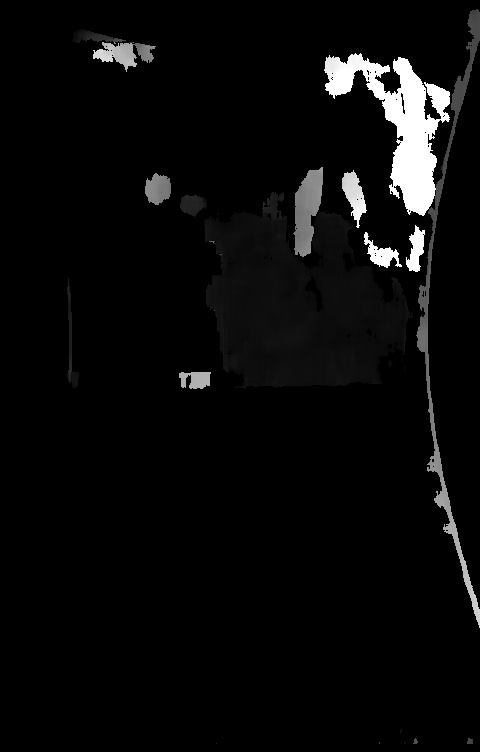
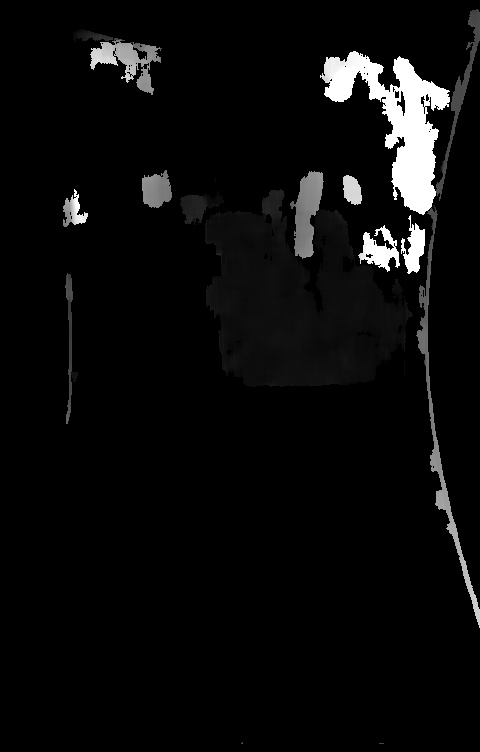
test using opencv StereoBM

diff --git a/indigosdk-2.0.15/src/omnis5u3mt9v022.cc b/indigosdk-2.0.15/src/omnis5u3mt9v022.cc
@@ -541,7 +541,7 @@ static DeferredImage computeDisparityImage2(std::shared_ptr<void> stereo_handle,
         // Mat test = occamImageToCvMat(disp);
         imwrite("img/disp/left/left_disp"+std::to_string(index)+".jpg", left_disp);
         imwrite("img/disp/right/right_disp"+std::to_string(index)+".jpg", right_disp);
-        imwrite("img/disp/filtered_disp"+std::to_string(index)+".jpg", filtered_disp);
+        imwrite("img/disp/filtered/filtered_disp"+std::to_string(index)+".jpg", filtered_disp);
         imwrite("img/mono/left_for_matcher"+std::to_string(index)+".jpg", left_for_matcher);
         imwrite("img/mono/right_for_matcher"+std::to_string(index)+".jpg", right_for_matcher);
 
@@ -556,27 +556,6 @@ static DeferredImage computeDisparityImage2(std::shared_ptr<void> stereo_handle,
     return DeferredImage(gen_fn,img0r,img1r);
 }
 
-static DeferredImage computeDisparityImage4(std::shared_ptr<void> stereo_handle,
-        int index,
-        DeferredImage img0r,
-        DeferredImage img1r) {
-    auto gen_fn = [=](){
-        Mat left_for_matcher, right_for_matcher;
-        left_for_matcher = imread("img_2016-09-28_20:02/mono/left_for_matcher"+std::to_string(index)+".jpg", IMREAD_UNCHANGED);
-        right_for_matcher = imread("img_2016-09-28_20:02/mono/right_for_matcher"+std::to_string(index)+".jpg", IMREAD_UNCHANGED);
-        OccamImage* img0rp = cvMatToOccamImage(left_for_matcher.clone());
-        OccamImage* img1rp = cvMatToOccamImage(right_for_matcher.clone());
-        // OccamImage* img0rp = img0r->get();
-        // OccamImage* img1rp = img1r->get();
-        IOccamStereo* stereo_iface = 0;
-        occamGetInterface(stereo_handle.get(),IOCCAMSTEREO,(void**)&stereo_iface);
-        OccamImage* disp = 0;
-        stereo_iface->compute(stereo_handle.get(),index,img0rp,img1rp,&disp);
-        return std::shared_ptr<OccamImage>(disp,occamFreeImage);
-    };  
-    return DeferredImage(gen_fn,img0r,img1r);
-}
-
 static DeferredImage computeDisparityImage(std::shared_ptr<void> stereo_handle,
         int index,
         DeferredImage img0r,
@@ -584,13 +563,17 @@ static DeferredImage computeDisparityImage(std::shared_ptr<void> stereo_handle,
     auto gen_fn = [=](){
         OccamImage* img0rp = img0r->get();
         OccamImage* img1rp = img1r->get();
+        Mat left_for_matcher = occamImageToCvMat(img0rp);
+        Mat right_for_matcher = occamImageToCvMat(img1rp);
         IOccamStereo* stereo_iface = 0;
         occamGetInterface(stereo_handle.get(),IOCCAMSTEREO,(void**)&stereo_iface);
         OccamImage* disp = 0;
         stereo_iface->compute(stereo_handle.get(),index,img0rp,img1rp,&disp);
         Mat disp_cv = occamImageToCvMat(disp);
         imwrite("img/disp/unfiltered/disp"+std::to_string(index)+".jpg", disp_cv);
-        return std::shared_ptr<OccamImage>(disp,occamFreeImage);
+        imwrite("img/mono/left_for_matcher"+std::to_string(index)+".jpg", left_for_matcher);
+        imwrite("img/mono/right_for_matcher"+std::to_string(index)+".jpg", right_for_matcher);
+return std::shared_ptr<OccamImage>(disp,occamFreeImage);
     };  
     return DeferredImage(gen_fn,img0r,img1r);
 }
@@ -1572,11 +1555,11 @@ class OccamDevice_omnis5u3mt9v022 : public OccamMetaDeviceBase {
         out.set(OCCAM_RECTIFIED_IMAGE9,img1_mon4r);
 
         std::shared_ptr<void> stereo_handle = module(OCCAM_STEREO_MATCHER0);
-        auto disp0 = computeDisparityImage(stereo_handle,0,img0_mon0r,img1_mon0r);
-        auto disp1 = computeDisparityImage(stereo_handle,1,img0_mon1r,img1_mon1r);
-        auto disp2 = computeDisparityImage(stereo_handle,2,img0_mon2r,img1_mon2r);
-        auto disp3 = computeDisparityImage(stereo_handle,3,img0_mon3r,img1_mon3r);
-        auto disp4 = computeDisparityImage(stereo_handle,4,img0_mon4r,img1_mon4r);
+        // auto disp0 = computeDisparityImage(stereo_handle,0,img0_mon0r,img1_mon0r);
+        // auto disp1 = computeDisparityImage(stereo_handle,1,img0_mon1r,img1_mon1r);
+        // auto disp2 = computeDisparityImage(stereo_handle,2,img0_mon2r,img1_mon2r);
+        // auto disp3 = computeDisparityImage(stereo_handle,3,img0_mon3r,img1_mon3r);
+        // auto disp4 = computeDisparityImage(stereo_handle,4,img0_mon4r,img1_mon4r);
 
         // **************************** Stereo Params ****************************
         int bm_prefilter_size = get_bm_prefilter_size();
@@ -1601,11 +1584,11 @@ class OccamDevice_omnis5u3mt9v022 : public OccamMetaDeviceBase {
         // *******************************************************************************
 
         // **************************** StereoBM matching ****************************
-        // auto disp0 = computeDisparityImage2(stereo_handle,0,img0_mon0r,img1_mon0r,bm_prefilter_size,bm_prefilter_cap,bm_sad_window_size,bm_min_disparity,bm_num_disparities,bm_texture_threshold,bm_uniqueness_ratio,bm_speckle_range,bm_speckle_window_size,lambda,sigma);
-        // auto disp1 = computeDisparityImage2(stereo_handle,1,img0_mon1r,img1_mon1r,bm_prefilter_size,bm_prefilter_cap,bm_sad_window_size,bm_min_disparity,bm_num_disparities,bm_texture_threshold,bm_uniqueness_ratio,bm_speckle_range,bm_speckle_window_size,lambda,sigma);
-        // auto disp2 = computeDisparityImage2(stereo_handle,2,img0_mon2r,img1_mon2r,bm_prefilter_size,bm_prefilter_cap,bm_sad_window_size,bm_min_disparity,bm_num_disparities,bm_texture_threshold,bm_uniqueness_ratio,bm_speckle_range,bm_speckle_window_size,lambda,sigma);
-        // auto disp3 = computeDisparityImage2(stereo_handle,3,img0_mon3r,img1_mon3r,bm_prefilter_size,bm_prefilter_cap,bm_sad_window_size,bm_min_disparity,bm_num_disparities,bm_texture_threshold,bm_uniqueness_ratio,bm_speckle_range,bm_speckle_window_size,lambda,sigma);
-        // auto disp4 = computeDisparityImage2(stereo_handle,4,img0_mon4r,img1_mon4r,bm_prefilter_size,bm_prefilter_cap,bm_sad_window_size,bm_min_disparity,bm_num_disparities,bm_texture_threshold,bm_uniqueness_ratio,bm_speckle_range,bm_speckle_window_size,lambda,sigma);
+        auto disp0 = computeDisparityImage2(stereo_handle,0,img0_mon0r,img1_mon0r,bm_prefilter_size,bm_prefilter_cap,bm_sad_window_size,bm_min_disparity,bm_num_disparities,bm_texture_threshold,bm_uniqueness_ratio,bm_speckle_range,bm_speckle_window_size,lambda,sigma);
+        auto disp1 = computeDisparityImage2(stereo_handle,1,img0_mon1r,img1_mon1r,bm_prefilter_size,bm_prefilter_cap,bm_sad_window_size,bm_min_disparity,bm_num_disparities,bm_texture_threshold,bm_uniqueness_ratio,bm_speckle_range,bm_speckle_window_size,lambda,sigma);
+        auto disp2 = computeDisparityImage2(stereo_handle,2,img0_mon2r,img1_mon2r,bm_prefilter_size,bm_prefilter_cap,bm_sad_window_size,bm_min_disparity,bm_num_disparities,bm_texture_threshold,bm_uniqueness_ratio,bm_speckle_range,bm_speckle_window_size,lambda,sigma);
+        auto disp3 = computeDisparityImage2(stereo_handle,3,img0_mon3r,img1_mon3r,bm_prefilter_size,bm_prefilter_cap,bm_sad_window_size,bm_min_disparity,bm_num_disparities,bm_texture_threshold,bm_uniqueness_ratio,bm_speckle_range,bm_speckle_window_size,lambda,sigma);
+        auto disp4 = computeDisparityImage2(stereo_handle,4,img0_mon4r,img1_mon4r,bm_prefilter_size,bm_prefilter_cap,bm_sad_window_size,bm_min_disparity,bm_num_disparities,bm_texture_threshold,bm_uniqueness_ratio,bm_speckle_range,bm_speckle_window_size,lambda,sigma);
        // *******************************************************************************
 
         auto disp0r = unrectifyImage(rectify_handle,0,disp0);
